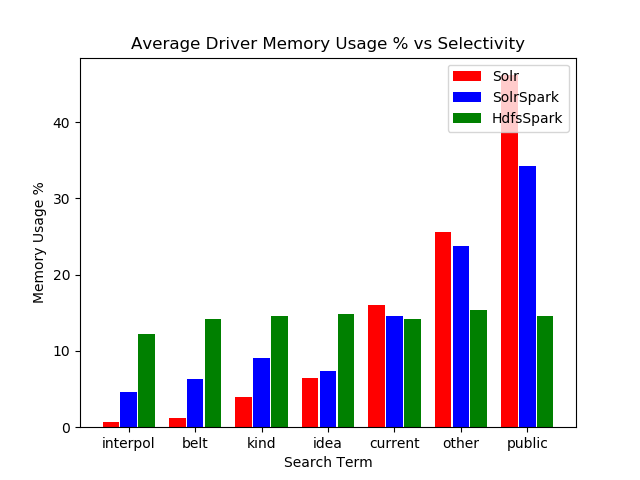
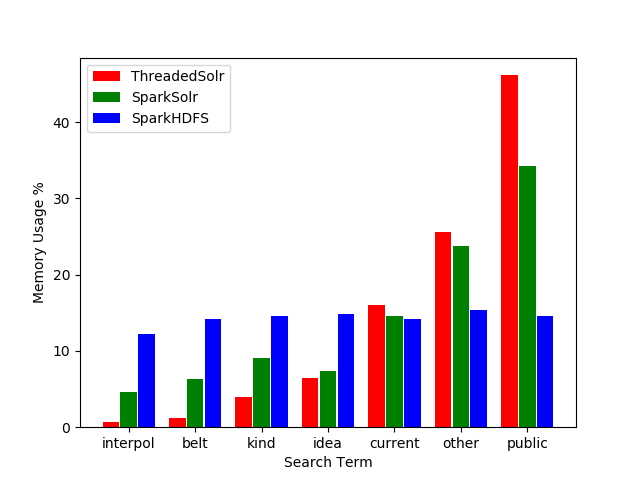
Update graphs

diff --git a/report/resource_usage.py b/report/resource_usage.py
@@ -276,7 +276,7 @@ def draw_line_exp():
                 legend.append(exp_type + ' - Spark Memory Usage')
             if "hdfs" in exp_type:
                 plt.plot(total_hdfs_mem_usage)
-                legend.append(exp_type + ' - Hdfs Memory Usage')
+                legend.append(exp_type + ' - HDFS Memory Usage')
 
             plt.legend(legend, loc='upper right')
 
@@ -343,6 +343,17 @@ def draw_bar_terms():
     exp3_spark_cpu_usage = avg_percentage([term_exps[term]['hdfs_spark']['spark_cpu_usage'] for term in terms])
     exp3_hdfs_cpu_usage = avg_percentage([term_exps[term]['hdfs_spark']['hdfs_cpu_usage'] for term in terms])
 
+    # exp1_driver_cpu_usage = np.percentile([term_exps[term]['solr']['cpu_usage'] for term in terms], 90)
+    # exp1_solr_cpu_usage = np.percentile([term_exps[term]['solr']['solr_cpu_usage'] for term in terms], 90)
+    #
+    # exp2_driver_cpu_usage = np.percentile([term_exps[term]['spark_solr']['cpu_usage'] for term in terms], 90)
+    # exp2_solr_cpu_usage = np.percentile([term_exps[term]['spark_solr']['solr_cpu_usage'] for term in terms], 90)
+    # exp2_spark_cpu_usage = np.percentile([term_exps[term]['spark_solr']['spark_cpu_usage'] for term in terms], 90)
+    #
+    # exp3_driver_cpu_usage = np.percentile([term_exps[term]['hdfs_spark']['cpu_usage'] for term in terms], 90)
+    # exp3_spark_cpu_usage = np.percentile([term_exps[term]['hdfs_spark']['spark_cpu_usage'] for term in terms], 90)
+    # exp3_hdfs_cpu_usage = np.percentile([term_exps[term]['hdfs_spark']['hdfs_cpu_usage'] for term in terms], 90)
+
     ###
 
     # memory
@@ -361,90 +372,92 @@ def draw_bar_terms():
 
     ### driver
 
-    plt.title("Average Driver CPU Usage % vs Selectivity")
+    # plt.title("Average Driver CPU Usage % vs Selectivity")
 
     # exp1
     plt.bar(X - 0.27, exp1_driver_cpu_usage, color='r', width=0.25)
 
     # exp2
-    plt.bar(X, exp2_driver_cpu_usage, color='b', width=0.25)
+    plt.bar(X, exp2_driver_cpu_usage, color='g', width=0.25)
 
     # exp3
-    plt.bar(X + 0.27, exp3_driver_cpu_usage, color='g', width=0.25)
+    plt.bar(X + 0.27, exp3_driver_cpu_usage, color='b', width=0.25)
 
     plt.xticks(X, terms)
     plt.xlabel('Search Term')
     plt.ylabel('CPU Usage %')
-    plt.legend(['Solr', 'SolrSpark', 'HdfsSpark'], loc='upper right')
+    plt.legend(['ThreadedSolr', 'SparkSolr', 'SparkHDFS'], loc='upper left')
 
     plt.savefig(os.path.join(graphs_dir, "driver_cpu_selectivity.png"))
+    plt.show()
 
     ### cluster
 
     plt.clf()
-    plt.title("Average Cluster CPU Usage % vs Selectivity")
+    # plt.title("Average Cluster CPU Usage % vs Selectivity")
 
     # exp1
     plt1 = plt.bar(X - 0.27, exp1_solr_cpu_usage, color='y', width=0.25)
 
     # exp2
     plt.bar(X, exp2_solr_cpu_usage, color='y', width=0.25)
-    plt.bar(X, exp2_spark_cpu_usage, bottom=exp2_solr_cpu_usage, color='g', width=0.25)
+    plt.bar(X, exp2_spark_cpu_usage, bottom=exp2_solr_cpu_usage, color='c', width=0.25)
 
     # exp3
     plt2 = plt.bar(X + 0.27, exp3_hdfs_cpu_usage, bottom=exp3_spark_cpu_usage, color='m', width=0.25)
-    plt3 = plt.bar(X + 0.27, exp3_spark_cpu_usage, color='g', width=0.25)
+    plt3 = plt.bar(X + 0.27, exp3_spark_cpu_usage, color='c', width=0.25)
 
     plt.xticks(X, terms)
     plt.xlabel('Search Term')
     plt.ylabel('CPU Usage %')
-    plt.legend((plt1[0], plt2[0], plt3[0]), ('Solr %', 'HDFS %', 'Spark %'))
+    plt.legend((plt1[0], plt2[0], plt3[0]), ('Solr %', 'HDFS %', 'Spark %'), loc='upper left')
 
     plt.savefig(os.path.join(graphs_dir, "cluster_cpu_selectivity.png"))
+    plt.show()
 
     ###
 
     ### driver
 
     plt.clf()
-    plt.title("Average Driver Memory Usage % vs Selectivity")
+    # plt.title("Average Driver Memory Usage % vs Selectivity")
 
     # exp1
     plt.bar(X - 0.27, exp1_driver_mem_usage, color='r', width=0.25)
 
     # exp2
-    plt.bar(X, exp2_driver_mem_usage, color='b', width=0.25)
+    plt.bar(X, exp2_driver_mem_usage, color='g', width=0.25)
 
     # exp3
-    plt.bar(X + 0.27, exp3_driver_mem_usage, color='g', width=0.25)
+    plt.bar(X + 0.27, exp3_driver_mem_usage, color='b', width=0.25)
 
     plt.xticks(X, terms)
     plt.xlabel('Search Term')
     plt.ylabel('Memory Usage %')
-    plt.legend(['Solr', 'SolrSpark', 'HdfsSpark'], loc='upper right')
+    plt.legend(['ThreadedSolr', 'SparkSolr', 'SparkHDFS'], loc='upper left')
 
     plt.savefig(os.path.join(graphs_dir, "driver_mem_selectivity.png"))
 
     ### cluster
 
     plt.clf()
-    plt.title("Average Cluster Memory Usage % vs Selectivity")
+    # plt.title("Average Cluster Memory Usage % vs Selectivity")
 
     # exp1
     plt1 = plt.bar(X - 0.27, exp1_solr_mem_usage, color='y', width=0.25)
 
     # exp2
     plt.bar(X, exp2_solr_mem_usage, color='y', width=0.25)
-    plt.bar(X, exp2_spark_mem_usage, bottom=exp2_solr_mem_usage, color='g', width=0.25)
+    plt.bar(X, exp2_spark_mem_usage, bottom=exp2_solr_mem_usage, color='c', width=0.25)
 
     # exp3
     plt2 = plt.bar(X + 0.27, exp3_hdfs_mem_usage, bottom=exp3_spark_mem_usage, color='m', width=0.25)
-    plt3 = plt.bar(X + 0.27, exp3_spark_mem_usage, color='g', width=0.25)
+    plt3 = plt.bar(X + 0.27, exp3_spark_mem_usage, color='c', width=0.25)
 
     plt.xticks(X, terms)
     plt.xlabel('Search Term')
     plt.ylabel('CPU Usage %')
-    plt.legend((plt1[0], plt2[0], plt3[0]), ('Solr %', 'HDFS %', 'Spark %'))
+    plt.legend((plt1[0], plt2[0], plt3[0]), ('Solr %', 'HDFS %', 'Spark %'), loc='upper left')
 
     plt.savefig(os.path.join(graphs_dir, "cluster_mem_selectivity.png"))
 
@@ -458,21 +471,19 @@ def draw_runtime():
 
     X = np.arange(len(terms))
 
-    plt.title("Execution Time vs Selectivity")
-
     # driver totals
-    plt.bar(X, exp1_runtime, color='b', width=0.25)
+    plt.bar(X - 0.27, exp1_runtime, color='r', width=0.25)
 
     # solr totals
-    plt.bar(X + 0.25, exp2_runtime, color='g', width=0.25)
+    plt.bar(X, exp2_runtime, color='g', width=0.25)
 
     # spark totals
-    plt.bar(X + 0.50, exp3_runtime, color='r', width=0.25)
+    plt.bar(X + 0.27, exp3_runtime, color='b', width=0.25)
 
     plt.xticks(X, terms)
     plt.xlabel('Search Term')
     plt.ylabel('Execution Time (s)')
-    plt.legend(['Solr', 'SolrSpark', 'HdfsSpark'], loc='upper right')
+    plt.legend(['ThreadedSolr', 'SparkSolr', 'SparkHDFS'], loc='upper left')
 
     plt.savefig(os.path.join(graphs_dir, "runtime_selectivity.png"))
 
@@ -518,28 +529,30 @@ for term in terms:
 draw_bar_terms()
 
 # mapping = {}
-
+#
 # graph_freq = 20
 # x = []
 # y = []
-
-# with open("dist.txt") as f:
+#
+# with open(os.path.join(root_dir, "report", "dist.txt")) as f:
 #     for line in f.readlines():
 #         splits = line.split("\t")
 #         freq = int(splits[0])
 #         count = int(splits[1])
 #         if count > 150 and freq > 10:
-#             x.append(freq)
-#             y.append(count)
-
+#             x.append(math.log(freq))
+#             y.append(math.log(count))
+#
 # delta = math.floor(len(x) / graph_freq)
-
+#
 # x = x[0::delta]
 # y = y[0::delta]
-
+#
+# print(max(y))
+#
 # plt.subplots_adjust(left=0.2)
 # plt.plot(x, y)
-# plt.xlabel('Document frequency', fontsize='large')
-# plt.ylabel('Number of words', fontsize='large')
-# plt.savefig("Document_distribution.pdf")
+# plt.xlabel('Document frequency (log)', fontsize='large')
+# plt.ylabel('Number of words (log)', fontsize='large')
+# plt.savefig(os.path.join(graphs_dir, "zipfian_document_distribution.png"))
 # plt.show()
